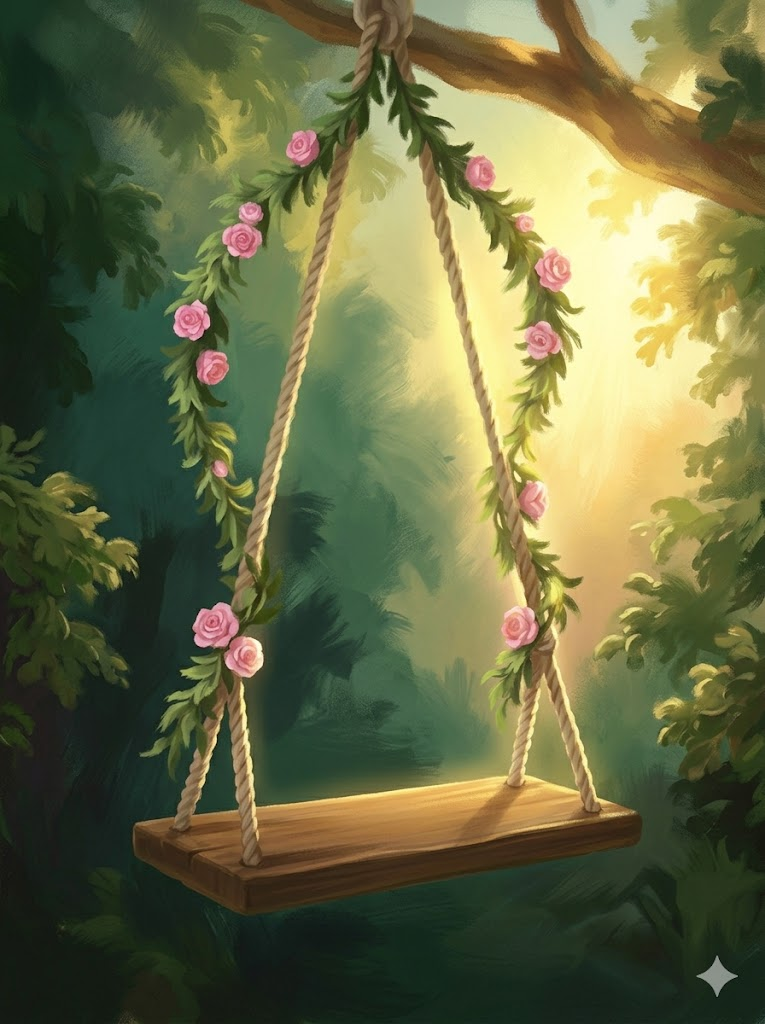
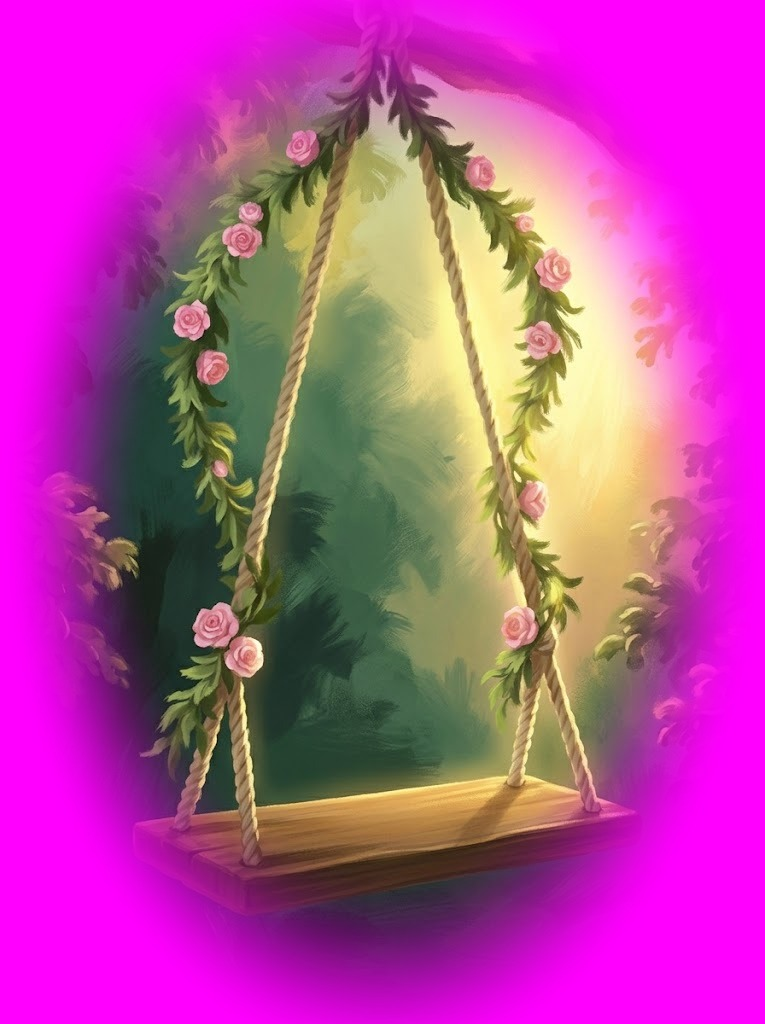
Level 3 art integration: seat/jet registration, bg-swing vignette, sun-shaft fallback
- Seat board and fountain-jet crown now register to the platform-collider top so the
  player visibly stands ON them (the delivered art's standable surface isn't at its pivot
  edge: seat board sits ~20% up, jet crown ~5% down).
- bg-swing was a fully-painted opaque scene; faded its edges into magenta so the keyer
  yields a soft-edged "window into the garden" instead of a hard rectangle.
- Added a procedural warm sun-shaft when bg-rays art is absent, preserving Fragonard's
  stolen-sunlight glow.

diff --git a/Assets/_Game/Scripts/Level/LevelBuilder.cs b/Assets/_Game/Scripts/Level/LevelBuilder.cs
@@ -1113,19 +1113,25 @@ namespace Velocity
             mp.distance = distance;
             mp.speed = speed;
 
-            // imported art: a swing-seat for horizontal pendulums (bench bottom seated on the
-            // platform top, ropes rising above — bot pivot), a fountain jet for vertical ones
-            // (froth crown at the platform top, water column hanging below — top pivot). Both
-            // register to the platform TOP (local y +0.5, since the parent quad's 0.4 y-scale
-            // makes +0.5 local = +0.2 world = the collider's standable top). The art is a child
-            // so it rides the platform; undo the parent's (1.6, 0.4) scale on the child.
+            // imported art: a swing-seat for horizontal pendulums (bench bottom seated low, ropes
+            // rising above — bot pivot), a fountain jet for vertical ones (froth crown up top,
+            // water column hanging below — top pivot). The player stands on the collider's top
+            // (world +0.2). The art's STANDABLE surface isn't at its pivot edge, though: in the
+            // delivered art the swing's seat-board sits ~20% up from the image bottom, and the
+            // jet's foam crown ~5% down from the image top — so each art is shoved so that surface
+            // lands on the collider top (player visibly stands ON it, not floating above). The
+            // child rides the platform; its localPosition.y is in the parent's 0.4-scaled space
+            // (×0.4 → world), and we undo the parent's (1.6, 0.4) scale on the child's size.
             bool vertical = axis.y > 0.5f;
             var art = LevelArt.Get(vertical ? "jet" : "swing-seat");
             if (art != null)
             {
                 sr.color = new Color(0f, 0f, 0f, 0f);     // collider quad goes invisible
+                // swing-seat: board top 0.20·2.6≈0.52 above image bottom → drop so it meets +0.2.
+                // jet: crown top 0.046·4.5≈0.21 below image top → raise so it meets +0.2.
+                float localY = vertical ? 1.02f : -0.81f;
                 var ps = ArtPiece(sr.transform, "SeatArt", art,
-                    new Vector3(0f, 0.5f, 0f), vertical ? 4.5f : 2.6f, 5);
+                    new Vector3(0f, localY, 0f), vertical ? 4.5f : 2.6f, 5);
                 var ls = ps.transform.localScale;
                 ps.transform.localScale = new Vector3(ls.x / 1.6f, ls.y / 0.4f, 1f);
             }

diff --git a/Assets/_Game/Scripts/Camera/PaintingBackdrop.cs b/Assets/_Game/Scripts/Camera/PaintingBackdrop.cs
@@ -479,6 +479,15 @@ namespace Velocity
                     new Vector3(_halfW * 0.4f, _halfH * 0.45f, 24f), _halfH * 1.8f, -86);
                 Pulse(sr, 0.4f, 0.03f, 0.08f, 0f);
             }
+            else
+            {
+                // no rays art — paint Fragonard's stolen sunlight procedurally: a warm bloom
+                // from the upper-right so the garden still glows toward the goal
+                var L = Locked("SunGlow");
+                var sr = Spr(L, _glow, new Color(t.Glow.r, t.Glow.g, t.Glow.b, 0.5f),
+                    new Vector3(_halfW * 0.5f, _halfH * 0.55f, 24f), Vector2.one * (_halfH * 2.8f), -86);
+                Pulse(sr, 0.4f, 0.03f, 0.1f, 0f);
+            }
             if (cloud != null)
             {
                 // rococo cotton clouds in the high keyhole of sky the canopy leaves open
